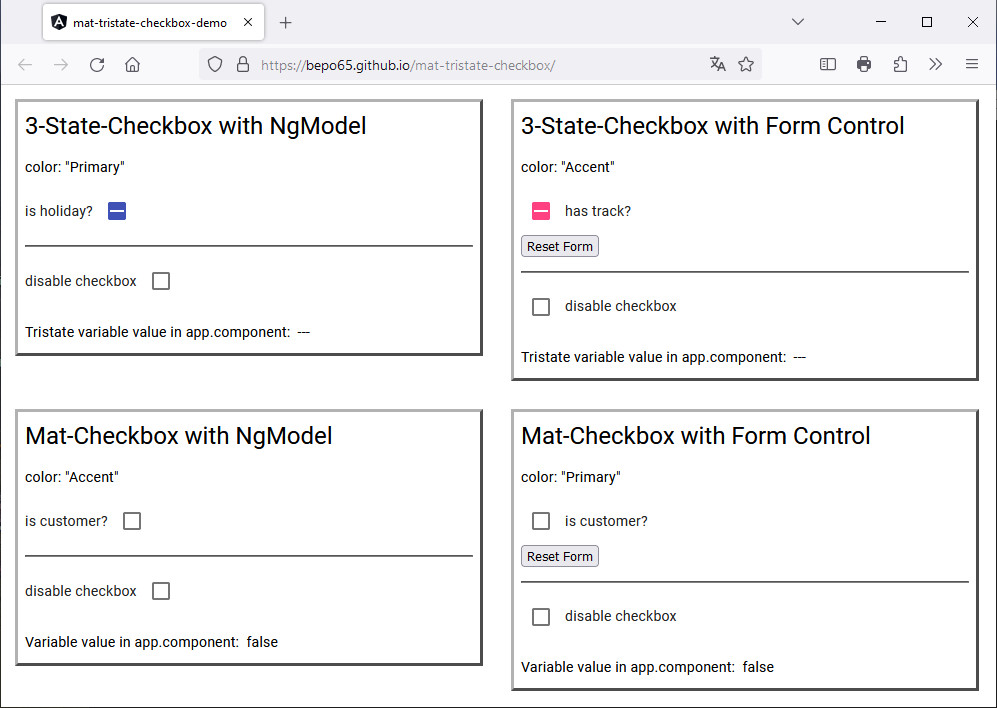
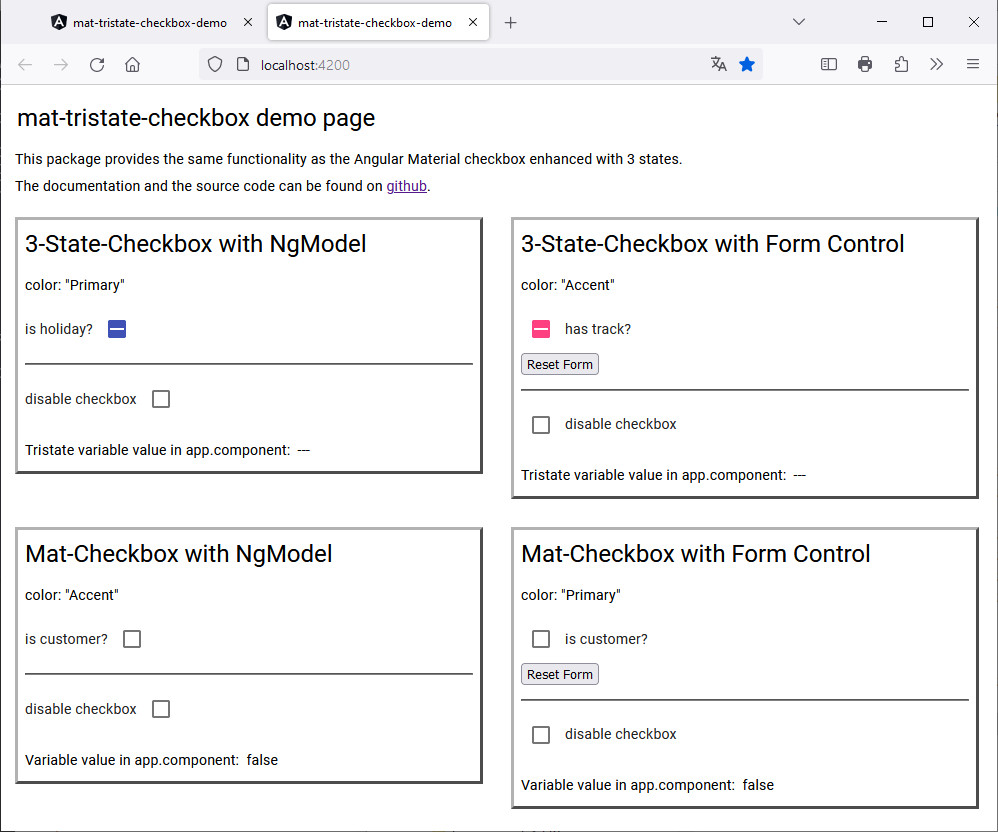
fix(demo): remove permanent scrollbar in demo window

Changed region(s): [[0.0, 0.0, 1.0, 1.0], [0.0, 0.0621, 0.0311, 0.0932]]

diff --git a/projects/mat-tristate-checkbox-demo/src/styles.scss b/projects/mat-tristate-checkbox-demo/src/styles.scss
@@ -6,11 +6,6 @@
 
 @import url("~@angular/material/prebuilt-themes/indigo-pink.css");
 
-html,
-body {
-  height: 100%;
-}
-
 body {
   margin: 0;
   font-family: Roboto, "Helvetica Neue", sans-serif;
